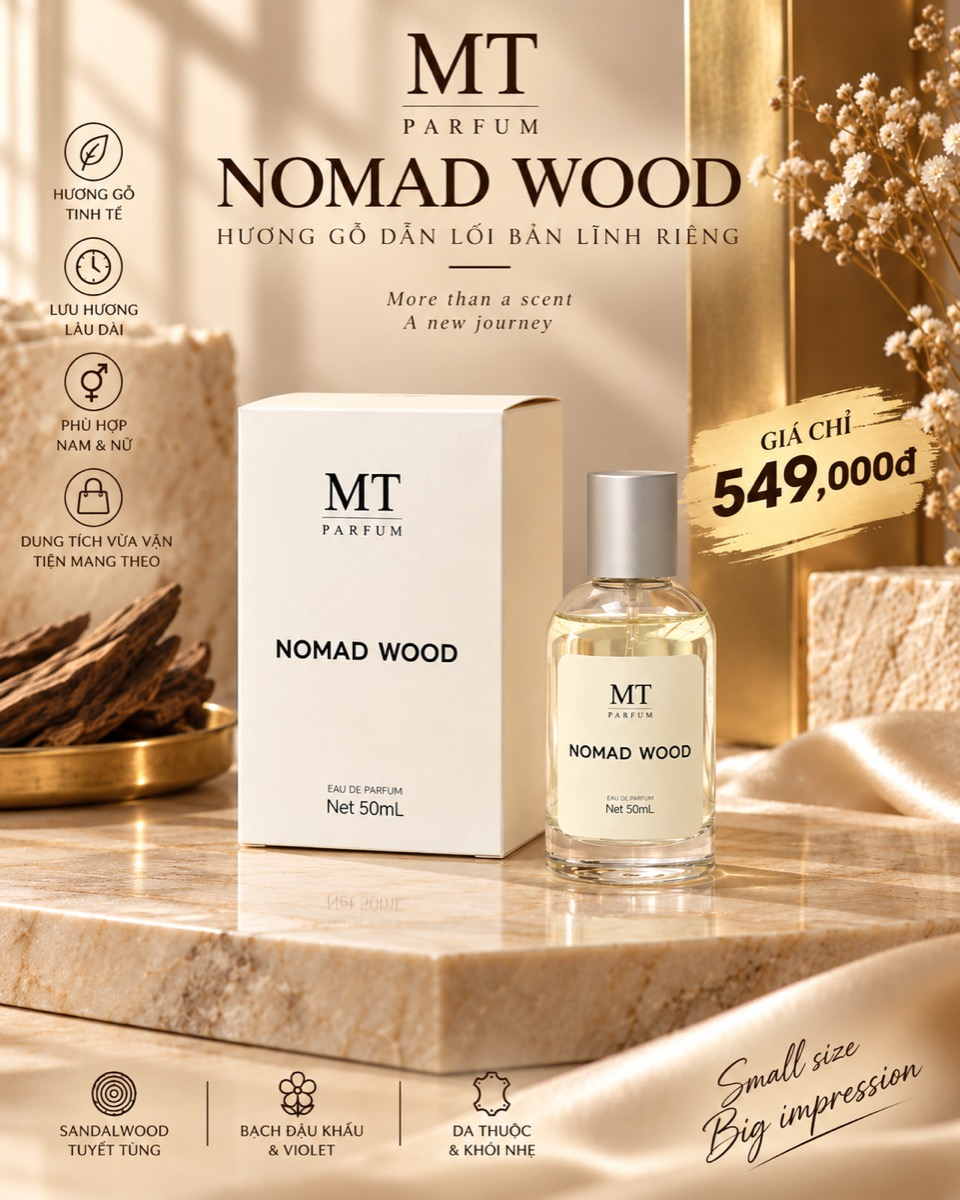
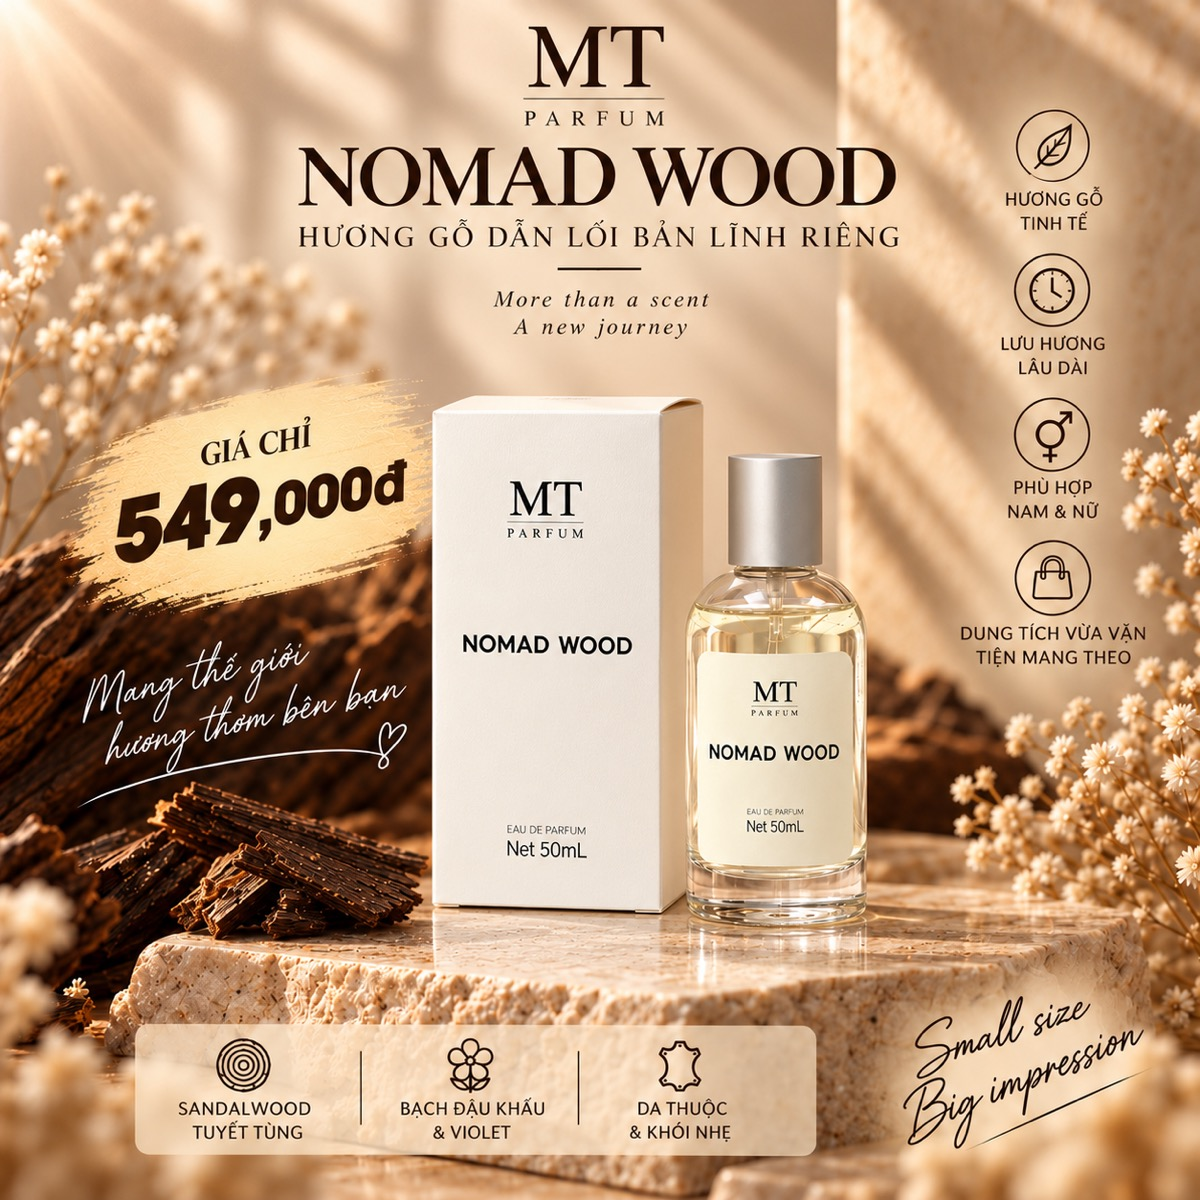
Trang Đăng ký đại lý + poster sản phẩm đồng nền be + trang Sản phẩm hiện 3 dung tích
- Thêm dai-ly.html (quyền lợi đại lý + form đăng ký, gửi lead qua Zalo, KHÔNG lộ giá sỉ)
- Menu + footer thêm mục Đại lý
- Trang Sản phẩm: hiện 3 poster theo dung tích (thay vì 1 card)
- Thay 3 poster sản phẩm bằng bộ ĐỒNG NỀN be (100ml hết nền tối lệch tông), đều 1200x1200; ?v=3 chống cache
- Giá lẻ giữ 199k/549k/899k

diff --git a/dai-ly.html b/dai-ly.html
@@ -1,0 +1,143 @@
+<!DOCTYPE html>
+<html lang="vi">
+<head>
+  <meta charset="UTF-8">
+  <meta name="viewport" content="width=device-width, initial-scale=1.0">
+  <title>Đăng ký làm Đại lý — MT Parfum</title>
+  <meta name="description" content="Trở thành đại lý nước hoa MT Parfum — Nomad Wood. Chiết khấu sỉ hấp dẫn, hàng chính hãng sản xuất tại Việt Nam, hỗ trợ hình ảnh &amp; marketing. Để lại thông tin để nhận bảng giá sỉ.">
+
+  <meta property="og:type" content="website">
+  <meta property="og:url" content="https://mtparfum.vn/dai-ly">
+  <meta property="og:site_name" content="MT Parfum">
+  <meta property="og:title" content="Đăng ký làm Đại lý — MT Parfum">
+  <meta property="og:description" content="Chiết khấu sỉ hấp dẫn, hàng chính hãng sản xuất tại Việt Nam, hỗ trợ marketing. Để lại thông tin để nhận bảng giá sỉ.">
+  <meta property="og:image" content="https://mtparfum.vn/assets/images/og-image.jpg?v=2">
+  <meta property="og:image:width" content="1200">
+  <meta property="og:image:height" content="630">
+  <meta name="twitter:card" content="summary_large_image">
+  <meta name="twitter:title" content="Đăng ký làm Đại lý — MT Parfum">
+  <meta name="twitter:description" content="Chiết khấu sỉ hấp dẫn, hàng chính hãng, hỗ trợ marketing. Để lại thông tin để nhận bảng giá sỉ.">
+  <meta name="twitter:image" content="https://mtparfum.vn/assets/images/og-image.jpg?v=2">
+
+  <link rel="preconnect" href="https://fonts.googleapis.com">
+  <link rel="preconnect" href="https://fonts.gstatic.com" crossorigin>
+  <link href="https://fonts.googleapis.com/css2?family=Cormorant+Garamond:ital,wght@0,400;0,500;0,600;1,400;1,500&family=Jost:wght@300;400;500&display=swap" rel="stylesheet">
+  <link rel="stylesheet" href="assets/css/style.css">
+</head>
+<body data-page="dai-ly">
+
+  <section class="page-hero">
+    <div class="wrap reveal">
+      <span class="eyebrow">Hợp tác kinh doanh</span>
+      <h1>Đăng ký làm Đại lý MT Parfum</h1>
+      <p>Cùng phân phối Nomad Wood — hương gỗ hiện đại, sang mà không phô. Để lại thông tin, đội ngũ MT Parfum sẽ liên hệ gửi <b>bảng giá sỉ chi tiết</b> &amp; tư vấn chính sách đại lý.</p>
+    </div>
+  </section>
+
+  <!-- Quyền lợi đại lý -->
+  <section class="section">
+    <div class="wrap">
+      <div class="sec-head reveal">
+        <span class="eyebrow">Vì sao chọn MT Parfum</span>
+        <h2>Quyền lợi khi làm đại lý</h2>
+      </div>
+      <div class="specs">
+        <div class="spec-card reveal">
+          <h3 style="font-size:22px;margin-bottom:8px">Chiết khấu sỉ hấp dẫn</h3>
+          <p style="font-size:14px;color:var(--ink-soft)">Giá sỉ ưu đãi theo doanh số — càng lấy nhiều, chiết khấu càng cao. Nhận bảng giá chi tiết khi đăng ký.</p>
+        </div>
+        <div class="spec-card reveal d1">
+          <h3 style="font-size:22px;margin-bottom:8px">Hàng chính hãng</h3>
+          <p style="font-size:14px;color:var(--ink-soft)">Sản xuất tại Việt Nam, có số công bố mỹ phẩm, kiểm soát chất lượng nghiêm ngặt — an tâm bán ra.</p>
+        </div>
+        <div class="spec-card reveal d2">
+          <h3 style="font-size:22px;margin-bottom:8px">Hỗ trợ hình ảnh &amp; marketing</h3>
+          <p style="font-size:14px;color:var(--ink-soft)">Cung cấp bộ ảnh, poster, nội dung chuẩn thương hiệu để đại lý bán hàng thuận lợi.</p>
+        </div>
+        <div class="spec-card reveal">
+          <h3 style="font-size:22px;margin-bottom:8px">Giao hàng toàn quốc</h3>
+          <p style="font-size:14px;color:var(--ink-soft)">Đặt hàng linh hoạt, giao nhanh trên toàn quốc, đóng gói chỉn chu kèm hộp &amp; túi giấy.</p>
+        </div>
+        <div class="spec-card reveal d1">
+          <h3 style="font-size:22px;margin-bottom:8px">Đổi trả rõ ràng</h3>
+          <p style="font-size:14px;color:var(--ink-soft)">Chính sách đổi trả minh bạch với hàng lỗi do nhà sản xuất hoặc hư hỏng khi vận chuyển.</p>
+        </div>
+        <div class="spec-card reveal d2">
+          <h3 style="font-size:22px;margin-bottom:8px">Đồng hành lâu dài</h3>
+          <p style="font-size:14px;color:var(--ink-soft)">Một mùi hương chủ lực, dễ bán lại — MT Parfum đồng hành cùng đại lý xây kênh bền vững.</p>
+        </div>
+      </div>
+    </div>
+  </section>
+
+  <!-- Form đăng ký -->
+  <section class="section" style="background:var(--cream-2)">
+    <div class="wrap">
+      <div class="sec-head reveal">
+        <span class="eyebrow">Đăng ký ngay</span>
+        <h2>Để lại thông tin đại lý</h2>
+        <p>Điền thông tin bên dưới — MT Parfum sẽ liên hệ trong thời gian sớm nhất để gửi bảng giá sỉ &amp; tư vấn.</p>
+      </div>
+      <div class="reveal d1" style="margin:0 auto;max-width:560px">
+        <form class="dl-form" id="dlForm" onsubmit="return dlSubmit(event)">
+          <div class="dl-grid2">
+            <div class="field"><label>Họ và tên *</label><input type="text" name="hoten" required placeholder="Nguyễn Văn A"></div>
+            <div class="field"><label>Số điện thoại / Zalo *</label><input type="tel" name="sdt" required placeholder="09xx xxx xxx"></div>
+          </div>
+          <div class="dl-grid2">
+            <div class="field"><label>Khu vực (Tỉnh/Thành) *</label><input type="text" name="khuvuc" required placeholder="VD: TP. Hồ Chí Minh"></div>
+            <div class="field"><label>Kênh bán hiện tại</label>
+              <select name="kenh">
+                <option value="">— Chọn kênh —</option>
+                <option>Bán online (Facebook/TikTok/Shopee...)</option>
+                <option>Cửa hàng / Shop mỹ phẩm</option>
+                <option>Spa / Salon / Thẩm mỹ</option>
+                <option>Mới bắt đầu kinh doanh</option>
+                <option>Khác</option>
+              </select>
+            </div>
+          </div>
+          <div class="field"><label>Ghi chú (số lượng dự kiến, câu hỏi...)</label><textarea name="ghichu" rows="4" placeholder="VD: Muốn lấy sỉ 50ml &amp; 100ml, khu vực Q.Tân Phú..."></textarea></div>
+          <button class="btn btn--solid btn--block" type="submit">Gửi đăng ký &amp; nhận bảng giá sỉ</button>
+          <p class="dl-note">Bằng cách gửi, thông tin của bạn sẽ được chuyển tới đội ngũ MT Parfum qua Zalo để tư vấn. Chúng tôi cam kết bảo mật thông tin.</p>
+        </form>
+
+        <div class="dl-contact">
+          <a class="btn btn--gold" id="dlZalo" href="#" target="_blank" rel="noopener">Đăng ký nhanh qua Zalo</a>
+          <a class="btn btn--outline" id="dlTel" href="#">Gọi hotline</a>
+        </div>
+      </div>
+    </div>
+  </section>
+
+  <script src="assets/js/data.js?v=20260922d"></script>
+  <script src="assets/js/site.js?v=20260922d"></script>
+  <script>
+    // Nút Zalo / hotline lấy từ SITE
+    document.addEventListener("DOMContentLoaded", () => {
+      qs("#dlZalo").href = SITE.zalo;
+      qs("#dlTel").href = "tel:" + SITE.phone.replace(/\s/g, "");
+      qs("#dlTel").textContent = "Gọi " + SITE.phone;
+    });
+
+    async function dlSubmit(e) {
+      e.preventDefault();
+      const f = e.target;
+      const g = (n) => (f.elements[n]?.value || "").trim();
+      const msg =
+        "🌿 ĐĂNG KÝ LÀM ĐẠI LÝ MT PARFUM\n" +
+        "• Họ tên: " + g("hoten") + "\n" +
+        "• SĐT/Zalo: " + g("sdt") + "\n" +
+        "• Khu vực: " + g("khuvuc") + "\n" +
+        "• Kênh bán: " + (g("kenh") || "(chưa chọn)") + "\n" +
+        "• Ghi chú: " + (g("ghichu") || "(không)") + "\n" +
+        "→ Vui lòng gửi giúp em bảng giá sỉ. Cảm ơn MT Parfum!";
+      try { await navigator.clipboard.writeText(msg); } catch (err) {}
+      window.open(SITE.zalo, "_blank", "noopener");
+      f.reset();
+      toast("Đã sao chép thông tin — dán (Ctrl/Cmd+V) vào Zalo rồi gửi để nhận bảng giá sỉ.");
+      return false;
+    }
+  </script>
+</body>
+</html>

diff --git a/assets/css/style.css b/assets/css/style.css
@@ -597,8 +597,15 @@ h1, h2, h3, h4 { font-family: var(--serif); font-weight: 500; line-height: 1.1; 
 .contact-grid { display: grid; grid-template-columns: 1fr; gap: 40px; }
 .field { margin-bottom: 18px; }
 .field label { display: block; font-size: 11px; letter-spacing: .16em; text-transform: uppercase; color: var(--muted); margin-bottom: 8px; }
-.field input, .field textarea { width: 100%; background: var(--paper); border: 1px solid var(--line); border-radius: var(--radius); padding: 14px 16px; font-size: 15px; color: var(--ink); }
-.field input:focus, .field textarea:focus { outline: none; border-color: var(--bronze); }
+.field input, .field textarea, .field select { width: 100%; background: var(--paper); border: 1px solid var(--line); border-radius: var(--radius); padding: 14px 16px; font-size: 15px; color: var(--ink); font-family: inherit; }
+.field input:focus, .field textarea:focus, .field select:focus { outline: none; border-color: var(--bronze); }
+
+/* Trang đại lý */
+.dl-form { max-width: 560px; }
+.dl-grid2 { display: grid; grid-template-columns: 1fr; gap: 0 16px; }
+@media (min-width: 560px) { .dl-grid2 { grid-template-columns: 1fr 1fr; } }
+.dl-note { font-size: 13px; color: var(--muted); margin-top: 12px; line-height: 1.6; }
+.dl-contact { display: flex; flex-wrap: wrap; gap: 12px; margin-top: 18px; }
 .info-line { display: flex; gap: 14px; padding: 18px 0; border-bottom: 1px solid var(--line); }
 .info-line svg { width: 22px; height: 22px; stroke: var(--bronze); flex: none; }
 .info-line b { display: block; font-family: var(--serif); font-size: 18px; margin-bottom: 2px; }

diff --git a/products.html b/products.html
@@ -38,19 +38,19 @@
     <div class="wrap">
       <div style="display:flex;justify-content:space-between;align-items:center;margin-bottom:34px;flex-wrap:wrap;gap:12px">
         <span class="label-sm" id="count"></span>
-        <span class="label-sm">Sắp xếp: Nổi bật</span>
+        <span class="label-sm">Nomad Wood · Eau de Parfum</span>
       </div>
-      <div class="grid-products" id="allGrid"></div>
+      <div class="poster-grid" id="allGrid"></div>
     </div>
   </section>
 
-  <script src="assets/js/data.js?v=20260922c"></script>
-  <script src="assets/js/site.js?v=20260922c"></script>
-  <script src="assets/js/catalog.js?v=20260922c"></script>
+  <script src="assets/js/data.js?v=20260922d"></script>
+  <script src="assets/js/site.js?v=20260922d"></script>
+  <script src="assets/js/catalog.js?v=20260922d"></script>
   <script>
     document.addEventListener("DOMContentLoaded", () => {
-      renderGrid("#allGrid");
-      qs("#count").textContent = PRODUCTS.length + " sản phẩm";
+      renderPosterGrid("#allGrid");
+      qs("#count").textContent = PRODUCTS[0].variants.length + " dung tích";
     });
   </script>
 </body>

diff --git a/assets/js/data.js b/assets/js/data.js
@@ -59,7 +59,7 @@ const PRODUCTS = [
         fl: "0.34 FL.OZ",
         price: 199000,
         compareAt: 0,
-        poster: "assets/images/poster_10.jpg",
+        poster: "assets/images/poster_10.jpg?v=3",
         image: "assets/images/that_10_chai.jpg",
         gallery: [
           "assets/images/that_10_chai.jpg",
@@ -74,7 +74,7 @@ const PRODUCTS = [
         fl: "1.7 FL.OZ",
         price: 549000,
         compareAt: 0,
-        poster: "assets/images/poster_50.jpg",
+        poster: "assets/images/poster_50.jpg?v=3",
         image: "assets/images/that_50_chai.jpg",
         gallery: [
           "assets/images/that_50_chai.jpg",
@@ -90,7 +90,7 @@ const PRODUCTS = [
         fl: "3.4 FL.OZ",
         price: 899000,
         compareAt: 0,
-        poster: "assets/images/poster_100.jpg",
+        poster: "assets/images/poster_100.jpg?v=3",
         image: "assets/images/that_100_chai.jpg",
         gallery: [
           "assets/images/that_100_chai.jpg",

diff --git a/assets/js/site.js b/assets/js/site.js
@@ -24,6 +24,7 @@ const NAV = [
   { label: "Trang chủ", href: "index.html", key: "home" },
   { label: "Sản phẩm", href: "products.html", key: "products" },
   { label: "Câu chuyện thương hiệu", href: "about.html", key: "about" },
+  { label: "Đại lý", href: "dai-ly.html", key: "dai-ly" },
   { label: "Liên hệ", href: "contact.html", key: "contact" },
 ];
 
@@ -147,6 +148,7 @@ function buildLayout() {
             <li><a href="products.html">Sản phẩm</a></li>
             <li><a href="product.html">Nomad Wood</a></li>
             <li><a href="about.html">Câu chuyện thương hiệu</a></li>
+            <li><a href="dai-ly.html">Đăng ký làm đại lý</a></li>
             <li><a href="contact.html">Liên hệ</a></li>
           </ul>
         </div>

diff --git a/product.html b/product.html
@@ -28,9 +28,9 @@
 
   <main id="pdp"><div style="height:60vh"></div></main>
 
-  <script src="assets/js/data.js?v=20260922c"></script>
-  <script src="assets/js/site.js?v=20260922c"></script>
-  <script src="assets/js/catalog.js?v=20260922c"></script>
-  <script src="assets/js/product.js?v=20260922c"></script>
+  <script src="assets/js/data.js?v=20260922d"></script>
+  <script src="assets/js/site.js?v=20260922d"></script>
+  <script src="assets/js/catalog.js?v=20260922d"></script>
+  <script src="assets/js/product.js?v=20260922d"></script>
 </body>
 </html>

diff --git a/index.html b/index.html
@@ -178,9 +178,9 @@
     </div>
   </section>
 
-  <script src="assets/js/data.js?v=20260922c"></script>
-  <script src="assets/js/site.js?v=20260922c"></script>
-  <script src="assets/js/catalog.js?v=20260922c"></script>
+  <script src="assets/js/data.js?v=20260922d"></script>
+  <script src="assets/js/site.js?v=20260922d"></script>
+  <script src="assets/js/catalog.js?v=20260922d"></script>
   <script>document.addEventListener("DOMContentLoaded", () => renderPosterGrid("#homeGrid"));</script>
 </body>
 </html>

diff --git a/policies.html b/policies.html
@@ -240,8 +240,8 @@
     </div>
   </section>
 
-  <script src="assets/js/data.js?v=20260922c"></script>
-  <script src="assets/js/site.js?v=20260922c"></script>
+  <script src="assets/js/data.js?v=20260922d"></script>
+  <script src="assets/js/site.js?v=20260922d"></script>
   <script>
     document.addEventListener("DOMContentLoaded", () => {
       const first = document.querySelector("#policyFaq .acc__item.open .acc__panel");

diff --git a/contact.html b/contact.html
@@ -55,8 +55,8 @@
     </div>
   </section>
 
-  <script src="assets/js/data.js?v=20260922c"></script>
-  <script src="assets/js/site.js?v=20260922c"></script>
+  <script src="assets/js/data.js?v=20260922d"></script>
+  <script src="assets/js/site.js?v=20260922d"></script>
   <script>
     document.addEventListener("DOMContentLoaded", () => {
       qs("#contactInfo").innerHTML = `

diff --git a/about.html b/about.html
@@ -150,7 +150,7 @@
     </div>
   </section>
 
-  <script src="assets/js/data.js?v=20260922c"></script>
-  <script src="assets/js/site.js?v=20260922c"></script>
+  <script src="assets/js/data.js?v=20260922d"></script>
+  <script src="assets/js/site.js?v=20260922d"></script>
 </body>
 </html>
